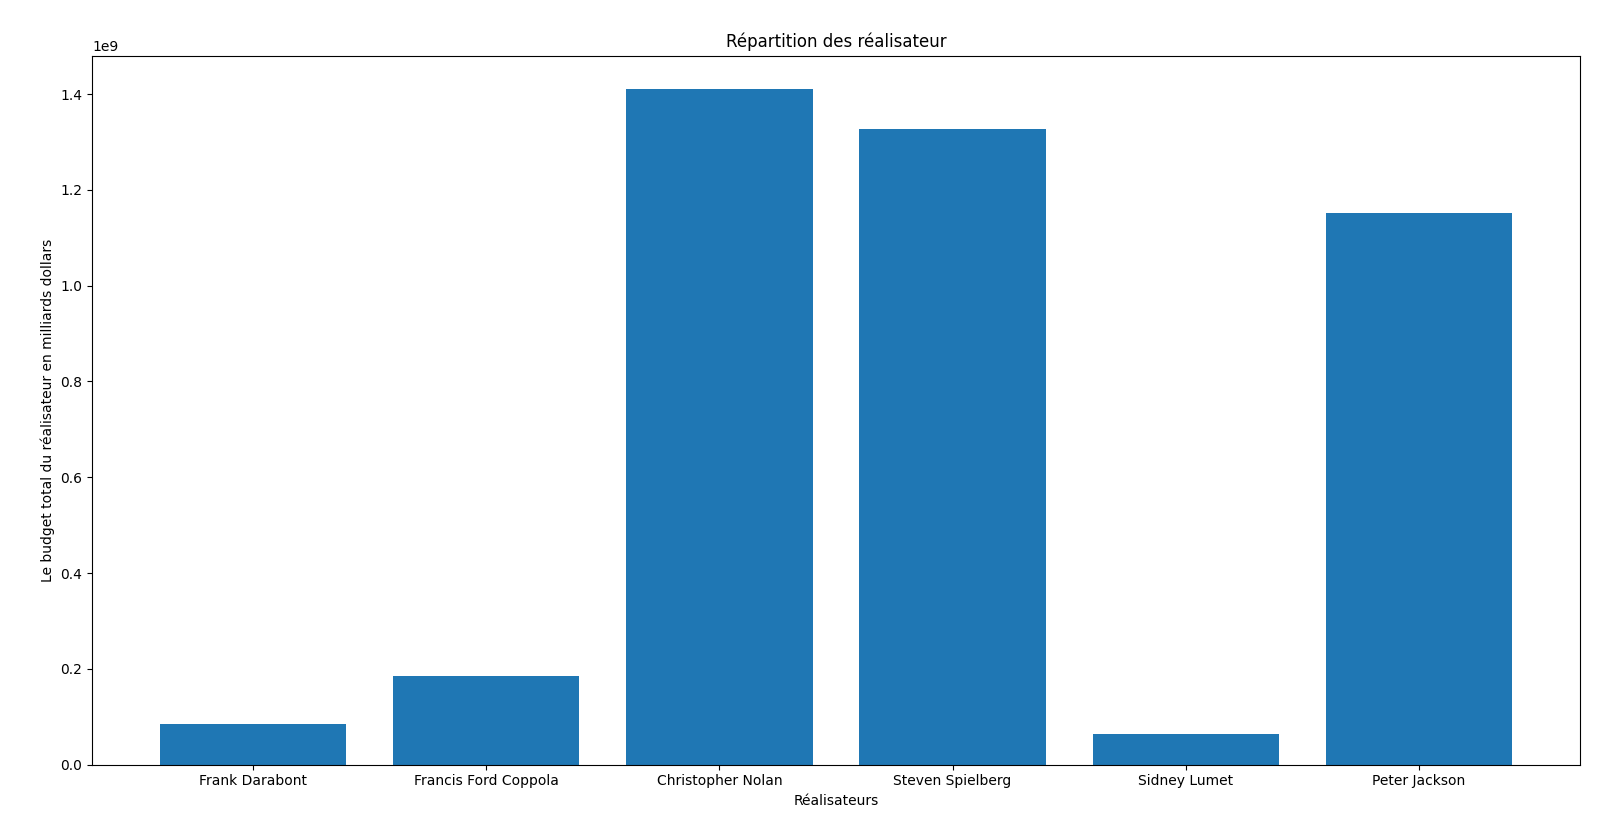
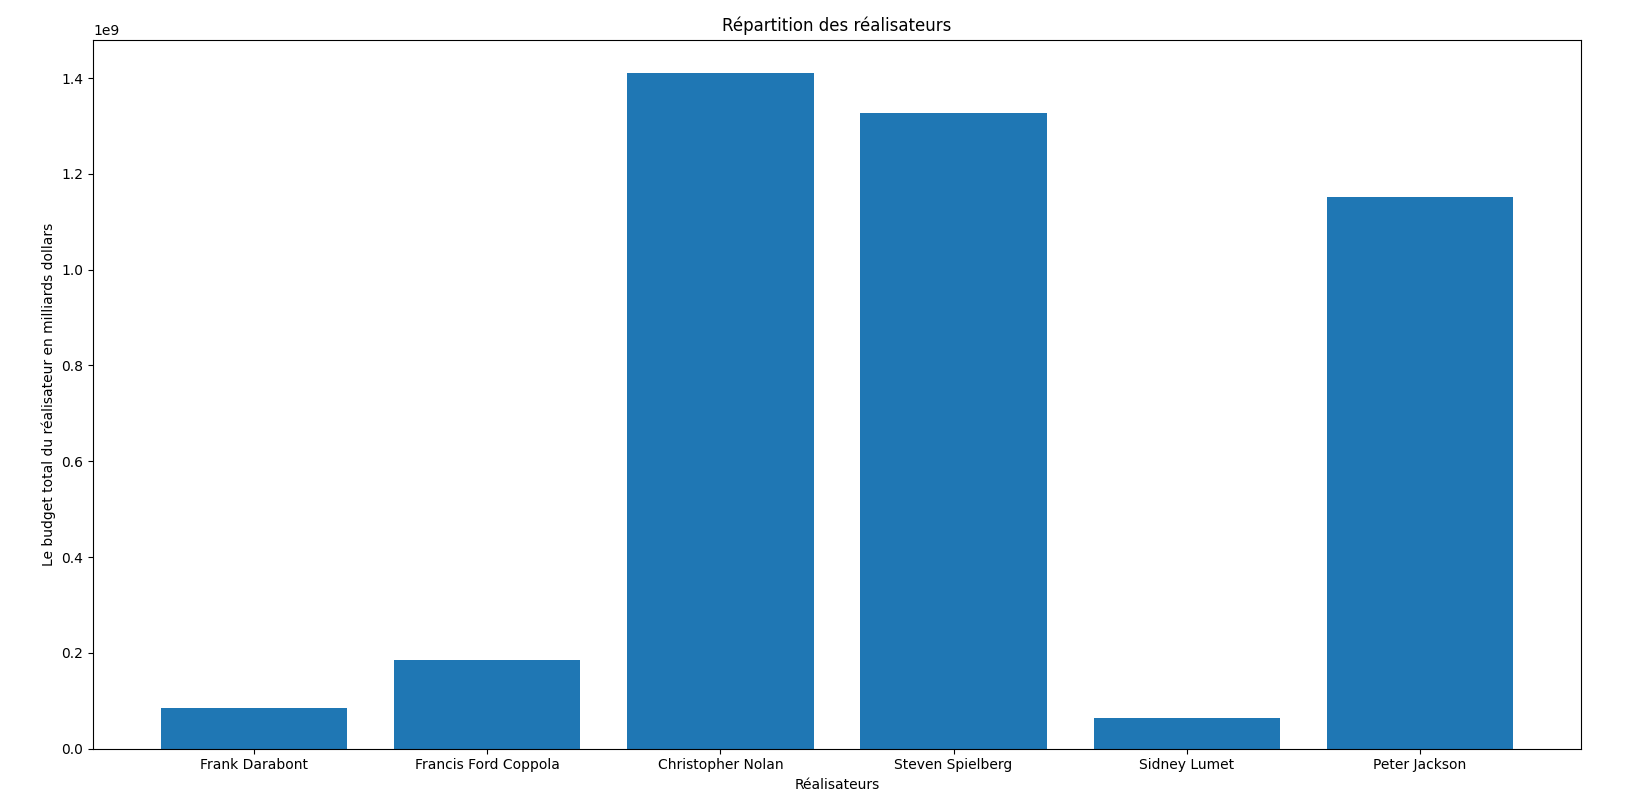
Push de correction

diff --git a/analyse.py b/analyse.py
@@ -27,9 +27,9 @@ for j in range(len(labels)) :
 plt.figure(figsize=(8, 8))
 bar  = plt.bar(labels,sizes,width=0.5)
 
-plt.title('Répartition des réalisateur')
+plt.title('Répartition des réalisateurs')
 plt.xlabel("Réalisateurs")
-plt.ylabel("Nombre des films des réalisateurs")
+plt.ylabel("Nombre de films des réalisateurs")
 # plt.show()
 
 #endregion
@@ -130,7 +130,7 @@ for elem in directorsSelected :
 # Création du diagramme en secteurs
 plt.figure(figsize=(8, 8))
 plt.bar(labelsDirector,sizesDirector)
-plt.title('Répartition des réalisateur')
+plt.title('Répartition des réalisateurs')
 plt.xlabel("Réalisateurs")
 plt.ylabel("Le budget total du réalisateur en milliards dollars")
 plt.show()
@@ -177,8 +177,8 @@ y_pred = beta_0 + beta_1 * x
 # Affichage des résultats
 plt.scatter(x, y, color='blue', label='Données réelles')
 plt.plot(x, y_pred, color='red', label='Régression linéaire')
-plt.xlabel('x')
-plt.ylabel('y')
+plt.xlabel('Budget en centaine de millions de dollars d\'un film')
+plt.ylabel('Note moyenne d\'un film')
 plt.legend()
 plt.title('Régression Linéaire Simple')
 plt.show()
@@ -217,8 +217,8 @@ for real in labelsDirector :
         # Affichage des résultats
         plt.scatter(x, y, color='blue', label='Données réelles')
         plt.plot(x, y_pred, color='red', label='Régression linéaire')
-        plt.xlabel('x')
-        plt.ylabel('y')
+        plt.xlabel('Budget en centaine de millions de dollars d\'un film')
+        plt.ylabel('Note moyenne IMDB d\'un film')
         plt.legend()
         plt.title('Régression Linéaire Simple ' + str(real))
         plt.show()

diff --git a/README.md b/README.md
@@ -1,64 +1,84 @@
-# Mini Projet BDD
+# Analyse des Films IMDB : Visualisations et Régressions
 
-## Introduction
-Ce projet a pour objectif d'explorer les données cinématographiques issues de l'IMDb afin d'analyser les relations entre les budgets de production et les notes des films. Nous examinons également la distribution des films et des réalisateurs qui ont produit des œuvres très bien notées. le but est d'essayer de trouver une utilité métier pour conseiller des producteurs sur le choix du réalisateur
+## Description
 
+Ce projet Python vise à analyser un dataset contenant des informations sur les films IMDB. Il utilise des outils comme Pandas et Matplotlib pour effectuer des visualisations de données et des régressions linéaires. Les principales étapes incluent la création de graphiques, la conversion des budgets en dollars, et l'analyse de la relation entre le budget et la note moyenne des films.
 
-## DataSet utilisé
-**IMDB_Movies_Dataset** via [Kaggle.com](https://kaggle.com)
+---
 
-## Choix des données 
+## Prérequis
 
-- Average Rating : La note moyenne sur IMDb
-- Metascore : Le score critique provenant de Metacritic
-- Title : Le titre du film
-- Director : Les réalisateurs
-- Writer : Les scénaristes
-- Release Date : La date de sortie
-- Country Of Origin : Le pays d'origine
-- Budget : Le budget de production
-- Runtime : La durée du film
+Avant de commencer, assurez-vous que votre environnement dispose des bibliothèques suivantes :
 
-**Source** : Internet Movie DataBase (IMDb)
+- `pandas`
+- `matplotlib`
+- `numpy`
+- `re`
 
-**Caractéristiques** : 
+Pour les installer, exécutez :
+```bash
+pip install pandas matplotlib numpy
+```
 
-- La note moyennes : c'est la moyenne des notes données par les utilisateurs d'IMDb au film, c'est un indicateur de la popularité critique de l'oeuvre
+---
 
-- Metascore : Le metascore issue du site metacritic
+## Fonctionnalités
 
-- Le titre : le titre anglais du film
-
-- Le réalisateur : Le nom et prénom du réalisteur du film, si plusieur réalisateurs (ex : Matrix), les données sont entre parenthèses
-
-- Scénariste : La liste (entre parenthèse) des personnes crédité au scénario pour le films
-
-**Quelles données gardons nous pour l'analyse ?**
-- Average_rating
-- Director
-- Budget
-Le but sera d'analyser les relations entre les budgets de production et les notes des films en fonction des réalisateurs
-
-## Visualisation
-- On met en place un BAR Chart pour visualiser les données, on affiche le nombre des films des réalisateurs qui ont eu au moins un average rating sur un de leurs films > 9 
-<img src='image/README/image.png'>
-
-- Une relation entre les budgets et les réalisateurs
-Un Bar Chart montre la somme des budgets des films pour chaque réalisateur ayant au moins un film bien noté (Average Rating ≥ 9). Les budgets ont été convertis en dollars pour permettre une analyse cohérente
-<img src='image/README/image copy.png'>
+### 1. Visualisation des réalisateurs et de leurs films
 
 
-## Problématique
-Est ce que le budget possède une influence sur la note d'un film en fonction du réalisateur ?
-
-## Mise en place d'un décisionnel
-
-### Mise en place d'une regression linéaire Générale sur tous les réalisateurs
-
-### Mise en place d'une regression linéaire ciblés sur ceux qui
+### 2. Analyse des budgets
 
 
+### 3. Régression linéaire
 
 
+---
 
+## Comment exécuter le projet
 
+1. **Préparer les données :**
+   - Téléchargez le fichier `IMDB_Movies_Dataset.csv` et placez-le dans le même répertoire que le script.
+
+2. **Lancer le script :**
+   - Exécutez le script avec Python :
+     ```bash
+     python analyse.py
+     ```
+ON a donc l'affichage des observations
+
+---
+
+## Organisation du code
+
+### Importation des données
+- Lecture des données depuis le fichier CSV.
+- Sélection des colonnes pertinentes : Titre, Réalisateur, Date de sortie, Budget, Note moyenne, etc.
+
+### Visualisation des réalisateurs
+- Diagramme en barres pour le nombre de films par réalisateur avec une note >= 9.
+
+### Conversion des budgets
+- Une fonction `convertNumber` convertit les budgets en dollars en fonction des devises présentes dans les données.
+
+### Analyse des budgets
+- Visualisation des budgets totaux des réalisateurs sélectionnés.
+
+### Régression linéaire
+- Implémentation d'une régression linéaire simple pour analyser la relation entre budget et note moyenne.
+- Régressions spécifiques par réalisateur.
+
+---
+
+## Résultats attendus
+
+- **Diagrammes en barres** : Nombre de films et budgets par réalisateur.
+- **Graphiques de régression linéaire** : Relation entre budget et note moyenne.
+- **Coefficients de régression** : Calculés et affichés dans la console.
+
+---
+
+## Améliorations possibles
+
+- Ajouter des analyses pour d'autres métriques (ex. : durée des films, origine des pays).
+- Intégrer un tableau interactif pour filtrer les réalisateurs ou films.
